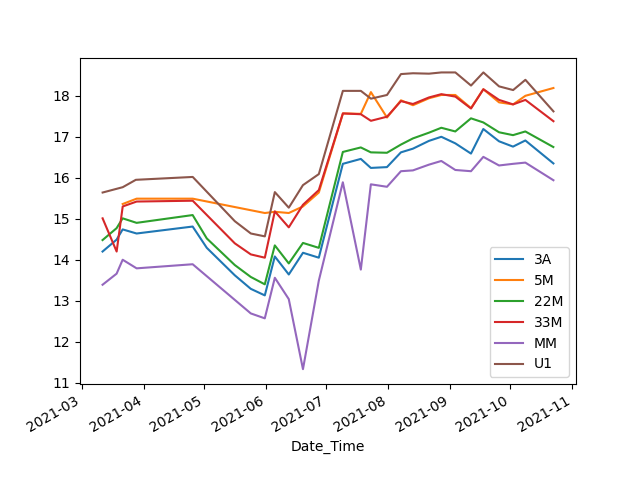
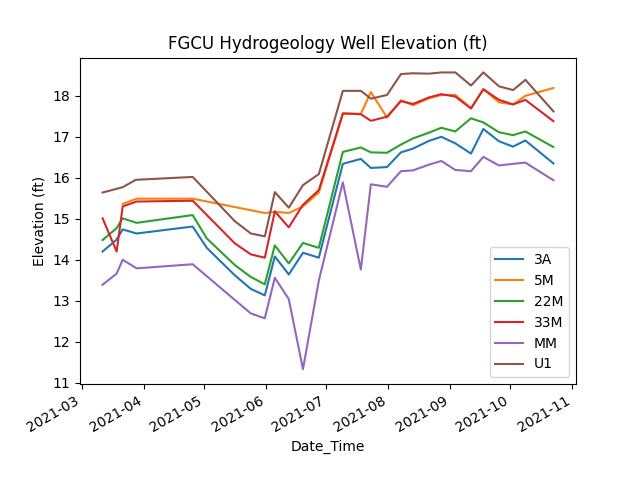
updated graph

Changed region(s): [[0.25, 0.0625, 0.75, 0.125], [0.0312, 0.375, 0.0625, 0.5625]]

diff --git a/toolkit/debug/auto_well_data/sheets_graph.py b/toolkit/debug/auto_well_data/sheets_graph.py
@@ -46,6 +46,9 @@ class SheetsGrapher():
         for df in self.data_frames:
             df.plot(ax=ax, kind=chart,x='Date_Time',y='Elevation (ft)')
         ax.legend(self.frame_names)
+        ax.set_title('FGCU Hydrogeology Well Elevation (ft)')
+        ax.set_xlabel('Date_Time')
+        ax.set_ylabel('Elevation (ft)')
         plt.show()
         
 
